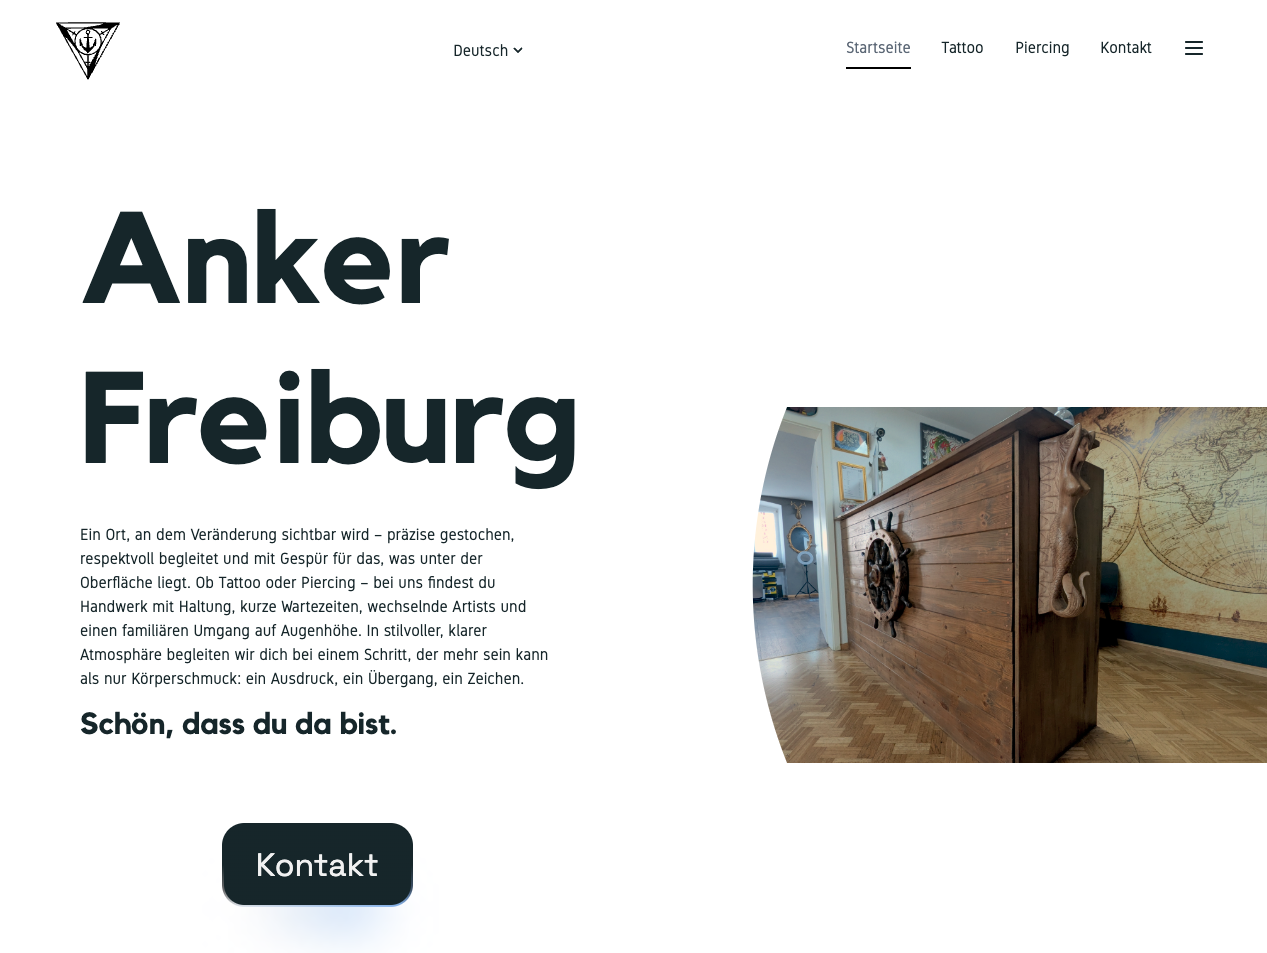
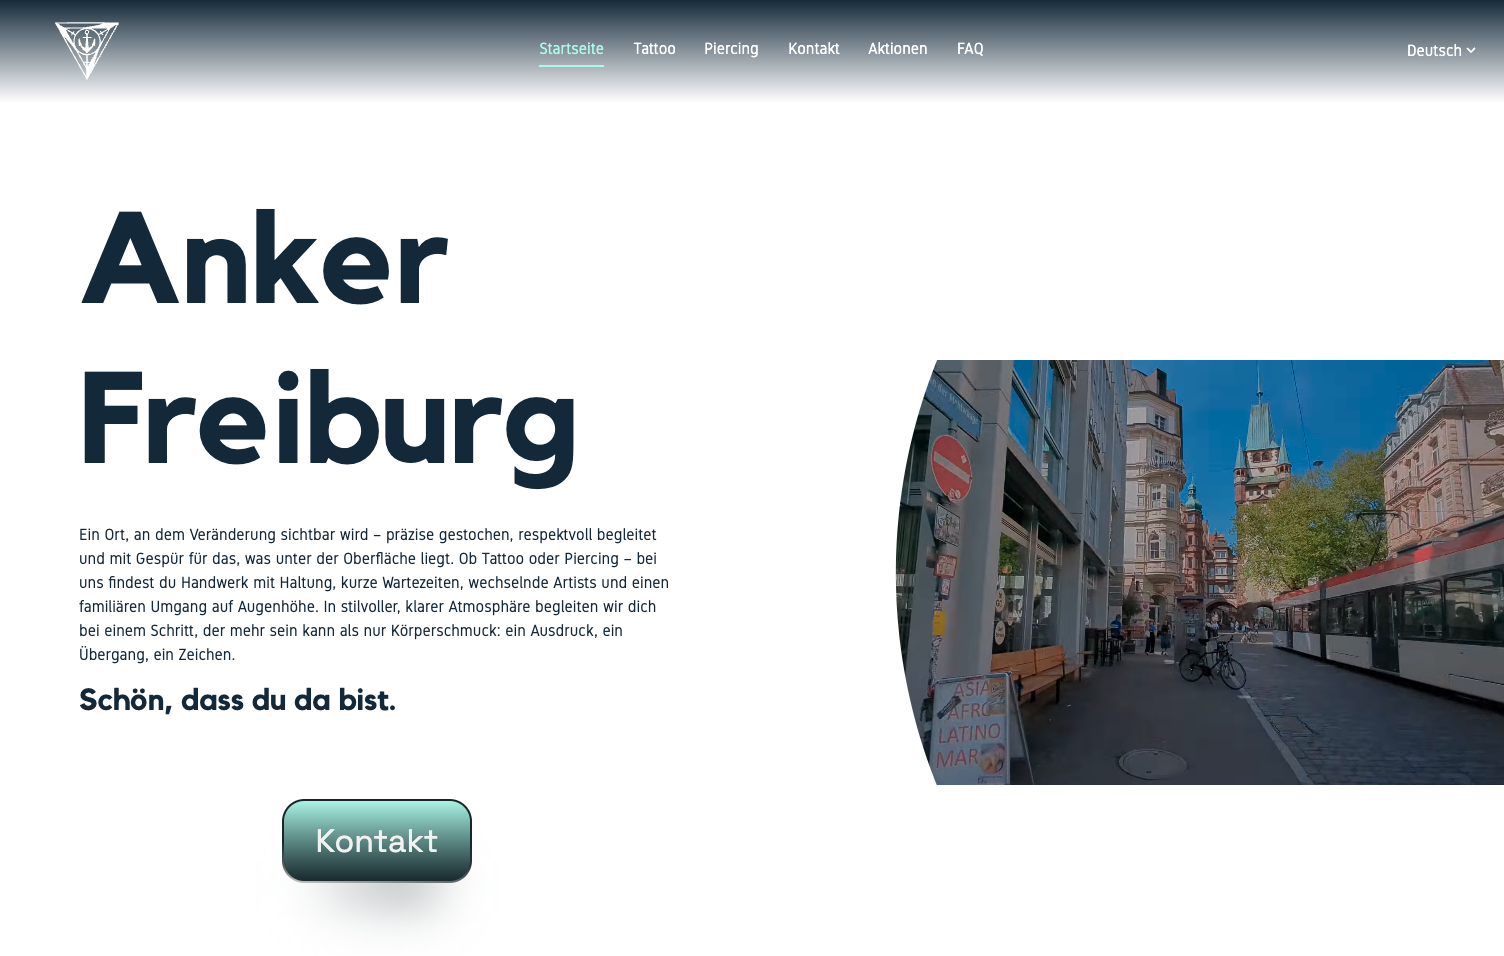
update project1 image and add a link

diff --git a/src/sections/Showcase.jsx b/src/sections/Showcase.jsx
@@ -44,7 +44,10 @@ const Showcase = () => {
                 <div className="text-content">
                     <h2>Business Website with a Simple yet Elegant Design and Focussed on Ease of Use.</h2>
                     <p className="text-white-50 text-xl">
-                        A Website Built with Vite, React, Tailwind CSS, GSAP, Python, SQL and i18next. (Currently in Development)
+                        A Website Built with Vite, React, Tailwind CSS, GSAP, Python, SQL and i18next. (Test Phase Deployment)
+                    </p>
+                    <p>
+                        <a href="https://anker-tattoo-piercing.vercel.app/" target="_blank">Check it out!</a>
                     </p>
                 </div>
             </div>
